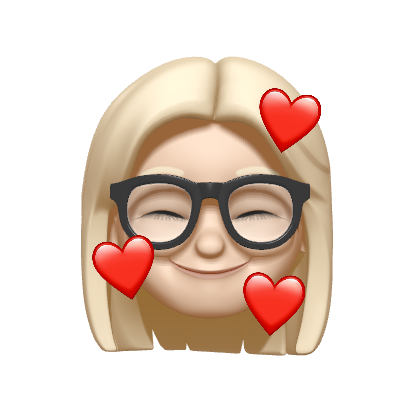
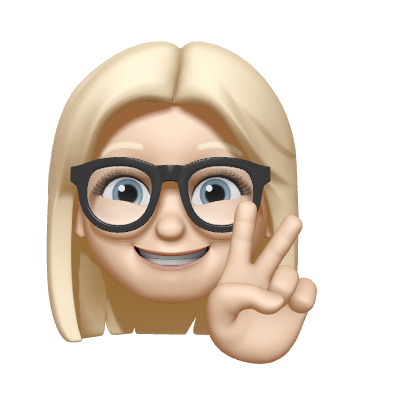
New images

diff --git a/alex.md b/alex.md
@@ -1,4 +1,4 @@
-<img src="assets/images/alex2.png" align="center" width="128" >**Gift Ideas for Alex**
+<img src="assets/images/alex3.png" align="center" width="128" >**Gift Ideas for Alex**
 
 - <a href="https://www.apple.com/us-edu/shop/product/BMGE2Z/A/pro-apps-bundle-for-education"><img src="https://store.storeimages.cdn-apple.com/4982/as-images.apple.com/is/BMGE2?wid=1144&hei=1144&fmt=jpeg&qlt=90&.v=1612566484000" align="center" width="64" ></a> [Apple Pro Apps Bundle for Education](https://www.apple.com/us-edu/shop/product/BMGE2Z/A/pro-apps-bundle-for-education) |
   $200
